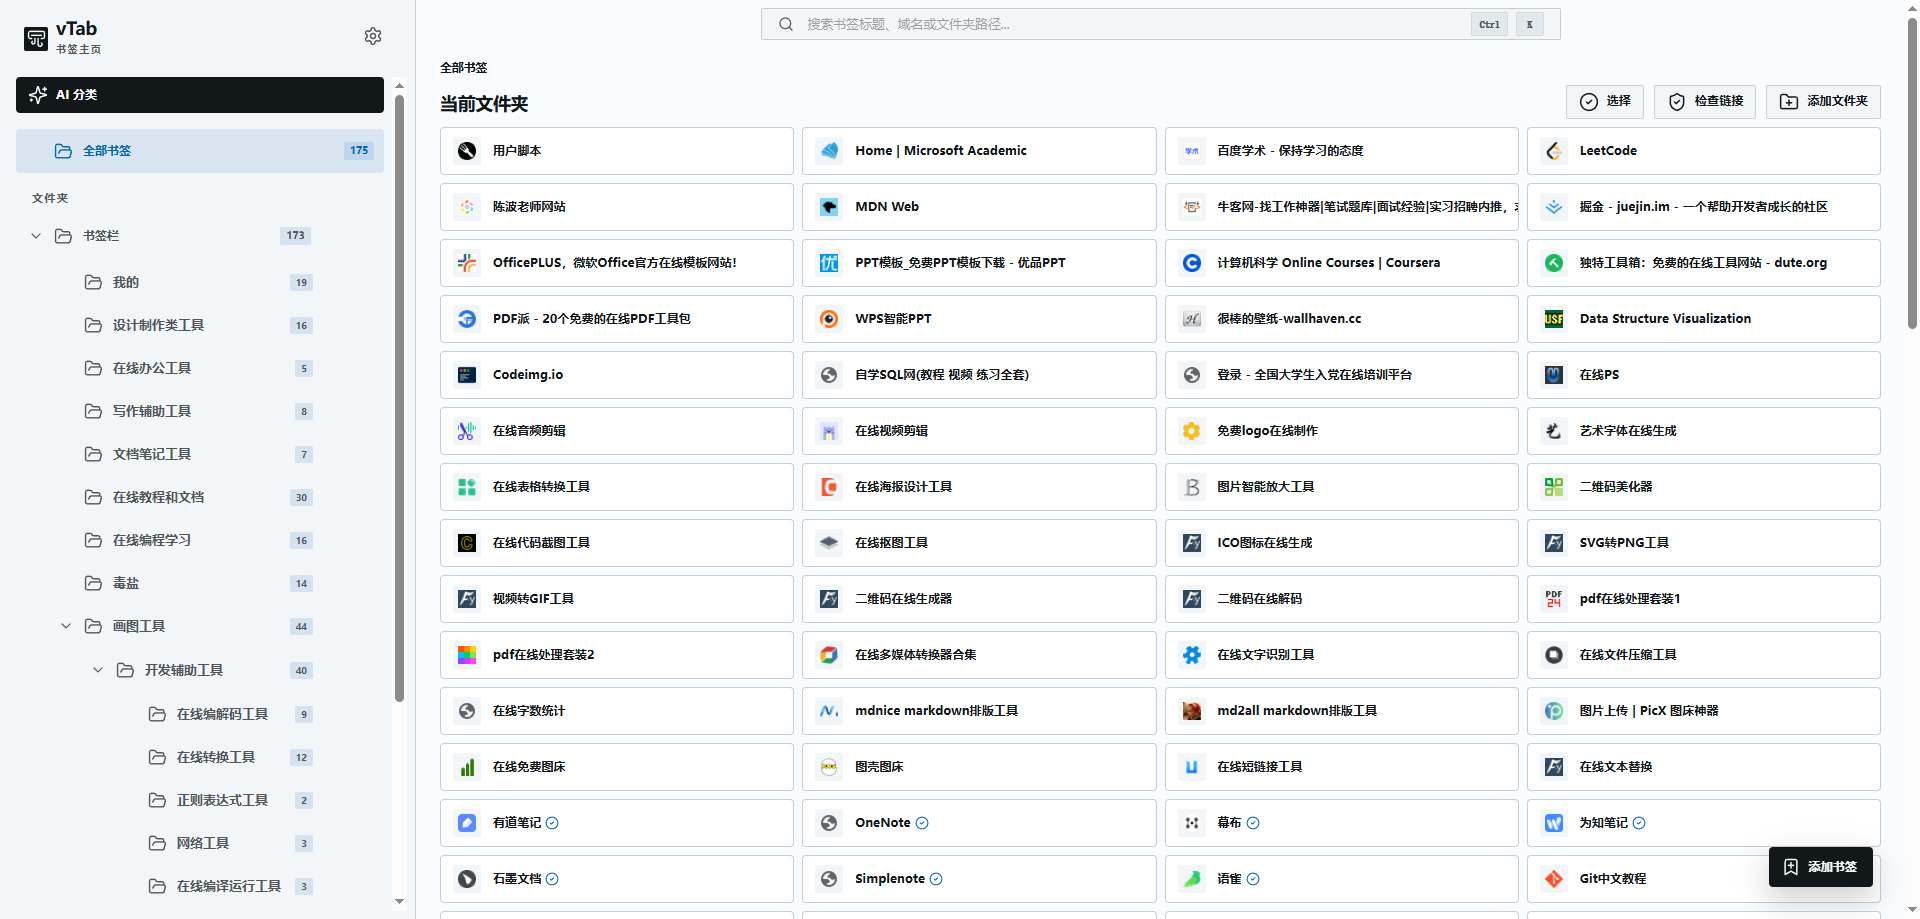
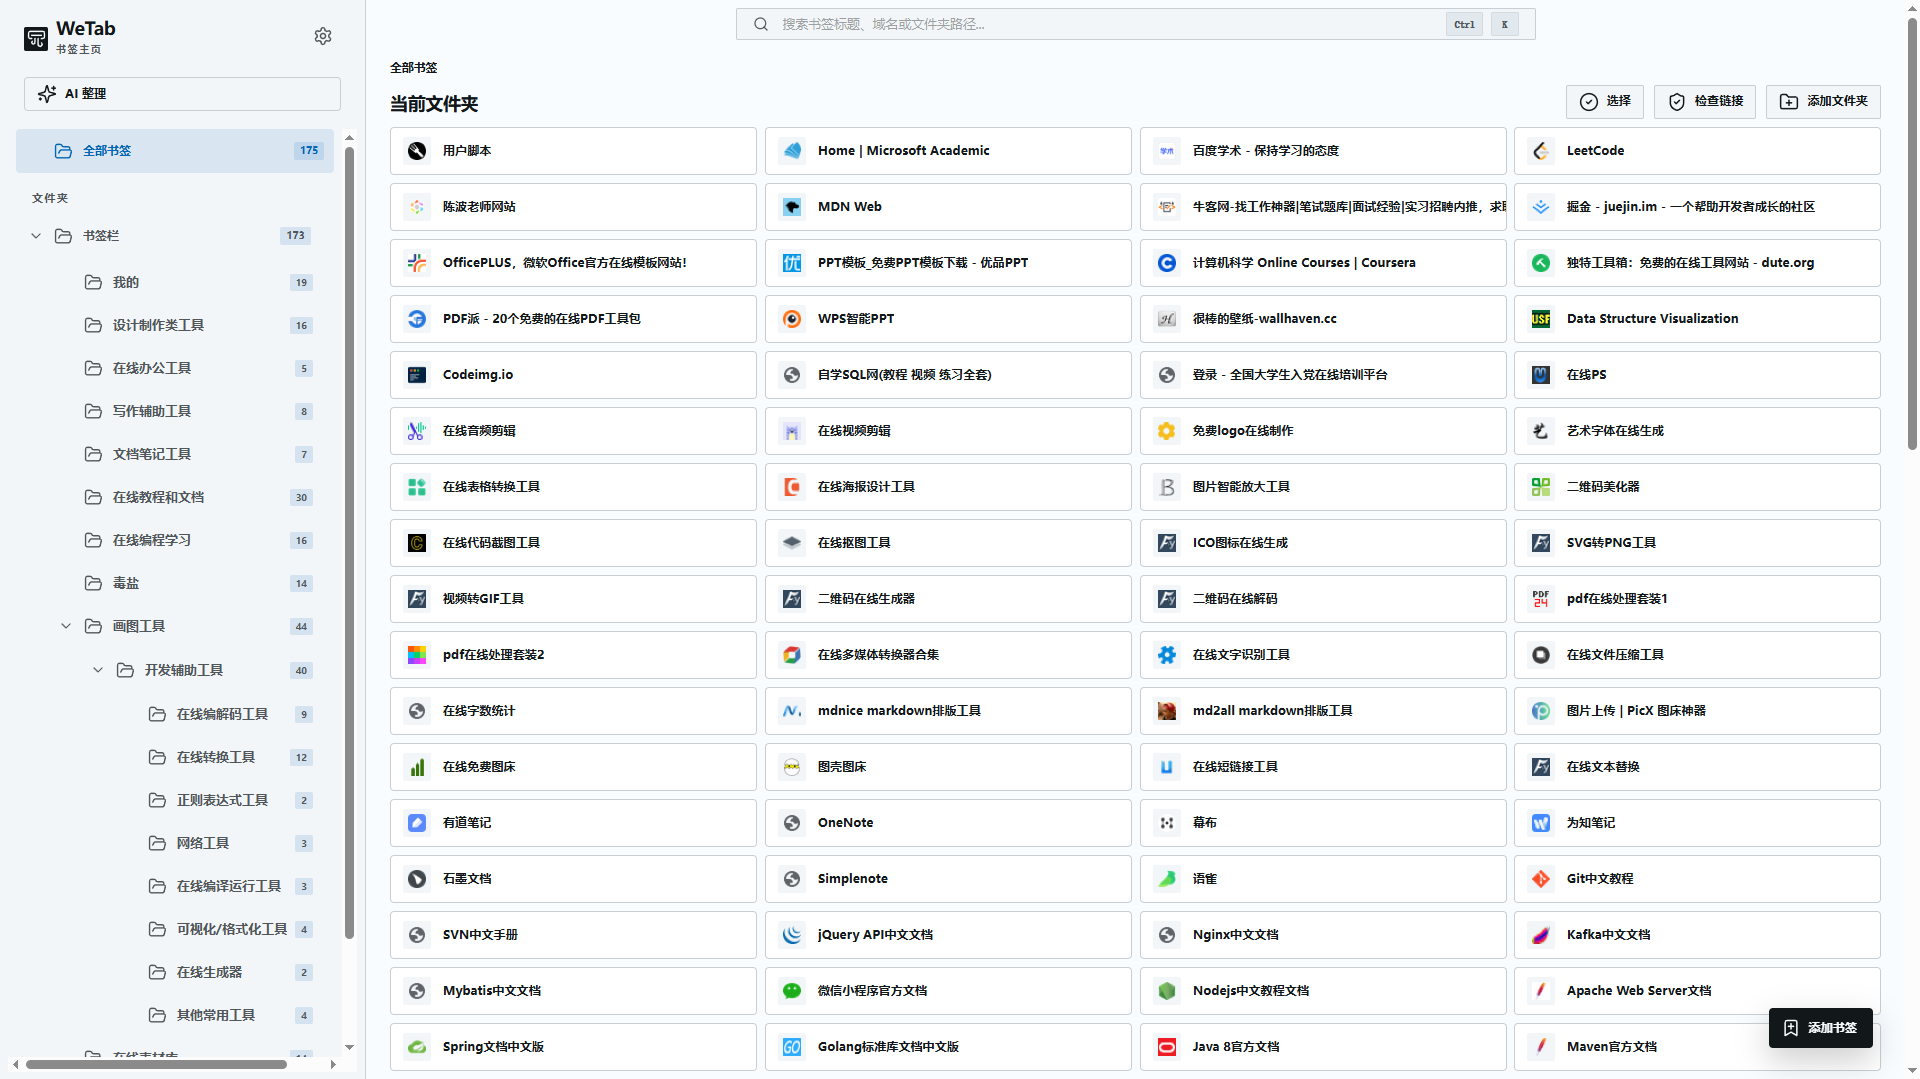
feat: show current folder in LLM suggestions; skip same-folder suggestions; update UI and tests; add newtab image

Changed region(s): [[0.0, 0.0, 1.0, 1.0], [0.375, 0.0, 0.5312, 0.0609], [0.75, 0.0, 0.8125, 0.0305]]

diff --git a/src/services/llmSuggestionService.ts b/src/services/llmSuggestionService.ts
@@ -9,6 +9,7 @@ const DEFAULT_SUGGESTION_TIMEOUT_MS = 20000;
 export interface LlmSuggestionBookmarkInput {
   domain: string;
   folderPath: string[];
+  folderIdPath?: string[];
   id: string;
   title: string;
   url: string;
@@ -29,6 +30,7 @@ export interface LlmClassificationSuggestion {
   confidence: number;
   id: string;
   newFolderName?: string;
+  currentFolderId?: string;
   reason: string;
   status: "pending" | "applied" | "rejected";
   targetFolderId?: string;
@@ -60,6 +62,7 @@ export function buildLlmSuggestionScope(
     bookmarks: bookmarks.map((bookmark) => ({
       domain: bookmark.domain,
       folderPath: bookmark.folderPath,
+      folderIdPath: bookmark.folderIdPath,
       id: bookmark.id,
       title: bookmark.title,
       url: bookmark.url
@@ -191,11 +194,32 @@ function createSuggestionBatch(
   scope: LlmSuggestionRequestScope
 ): LlmSuggestionBatch {
   const rawSuggestions = Array.isArray(rawResponse.suggestions) ? rawResponse.suggestions : [];
+  const bookmarkCurrentFolder = new Map<string, string | undefined>();
+  for (const bm of scope.bookmarks) {
+    // derive current folder id from folderIdPath if available, else undefined
+    bookmarkCurrentFolder.set(bm.id, Array.isArray((bm as any).folderIdPath) && (bm as any).folderIdPath.length
+      ? (bm as any).folderIdPath[(bm as any).folderIdPath.length - 1]
+      : undefined);
+  }
   const bookmarkIds = new Set(scope.bookmarks.map((bookmark) => bookmark.id));
   const folderIds = new Set(scope.folders.map((folder) => folder.id));
   const suggestions = rawSuggestions
     .map((value, index) => normalizeSuggestion(value, index, bookmarkIds, folderIds))
-    .filter((suggestion): suggestion is LlmClassificationSuggestion => Boolean(suggestion));
+    .map((s) => {
+      if (!s) return null;
+      // attach current folder id when available
+      const current = bookmarkCurrentFolder.get(s.bookmarkId);
+      return { ...s, currentFolderId: current } as LlmClassificationSuggestion;
+    })
+    .filter((suggestion): suggestion is LlmClassificationSuggestion => Boolean(suggestion))
+    .filter((suggestion) => {
+      // skip suggestions that target the same folder the bookmark is already in
+      if (!suggestion) return false;
+      if (suggestion.targetFolderId && suggestion.currentFolderId && suggestion.targetFolderId === suggestion.currentFolderId) {
+        return false;
+      }
+      return true;
+    });
 
   return {
     createdAt: Date.now(),

diff --git a/src/pages/NewTabPage.tsx b/src/pages/NewTabPage.tsx
@@ -1250,7 +1250,13 @@ export function NewTabPage() {
                 <article className="llm-suggestion" key={suggestion.id}>
                   <div>
                     <h4>{resolveSuggestionBookmarkTitle(suggestion, bookmarks)}</h4>
-                    <p>{formatSuggestionTarget(suggestion, folders, messages.newTab.llm.newFolderPrefix)}</p>
+                    <p className="llm-suggestion__folders">
+                      <strong>当前：</strong>
+                      {resolveSuggestionCurrentFolderLabel(suggestion, folders, bookmarks) || "(未分类)"}
+                      {' '}
+                      <strong>→ 建议：</strong>
+                      {formatSuggestionTarget(suggestion, folders, messages.newTab.llm.newFolderPrefix)}
+                    </p>
                     <p>{suggestion.reason}</p>
                   </div>
                   <div className="llm-suggestion__meta">
@@ -1738,6 +1744,26 @@ function pruneNestedSelections(items: OrganizationItemRef[], folders: FolderItem
 
 function resolveSuggestionBookmarkTitle(suggestion: LlmClassificationSuggestion, bookmarks: BookmarkItem[]): string {
   return bookmarks.find((bookmark) => bookmark.id === suggestion.bookmarkId)?.title ?? suggestion.bookmarkId;
+}
+
+function resolveSuggestionCurrentFolderLabel(
+  suggestion: LlmClassificationSuggestion,
+  folders: FolderItem[],
+  bookmarks: BookmarkItem[]
+): string | undefined {
+  // prefer explicit currentFolderId if provided by suggestion
+  if ((suggestion as any).currentFolderId) {
+    const folder = flattenFolders(folders).find((f) => f.id === (suggestion as any).currentFolderId);
+    if (folder) return folder.label;
+  }
+
+  // fallback: derive from bookmark.folderPath
+  const bm = bookmarks.find((b) => b.id === suggestion.bookmarkId);
+  if (bm && Array.isArray(bm.folderPath) && bm.folderPath.length) {
+    return bm.folderPath[bm.folderPath.length - 1];
+  }
+
+  return undefined;
 }
 
 function formatSuggestionTarget(

diff --git a/tests/e2e/newtab.spec.ts b/tests/e2e/newtab.spec.ts
@@ -23,7 +23,7 @@ test("new tab covers navigation, search, settings, and transient link validation
 
   await page.goto(`${entrypointUrls.newtab}${EXTENSION_QUERY}`);
 
-  await expect(page.getByRole("heading", { name: "vTab" })).toBeVisible();
+  await expect(page.getByRole("heading", { name: "WeTab" })).toBeVisible();
   await expect(page.getByRole("button", { name: "Open settings" })).toBeVisible();
   await expect(page.getByRole("searchbox", { name: /search bookmarks/i })).toBeVisible();
   await expect(page.getByRole("heading", { name: "OpenAI Platform" })).toBeVisible();

diff --git a/src/services/llmSuggestionService.test.ts b/src/services/llmSuggestionService.test.ts
@@ -95,6 +95,7 @@ describe("llmSuggestionService", () => {
         {
           domain: "platform.openai.com",
           folderPath: ["Bookmarks Bar", "Dev"],
+          folderIdPath: ["1", "2"],
           id: "3",
           title: "OpenAI Platform",
           url: "https://platform.openai.com/docs"
